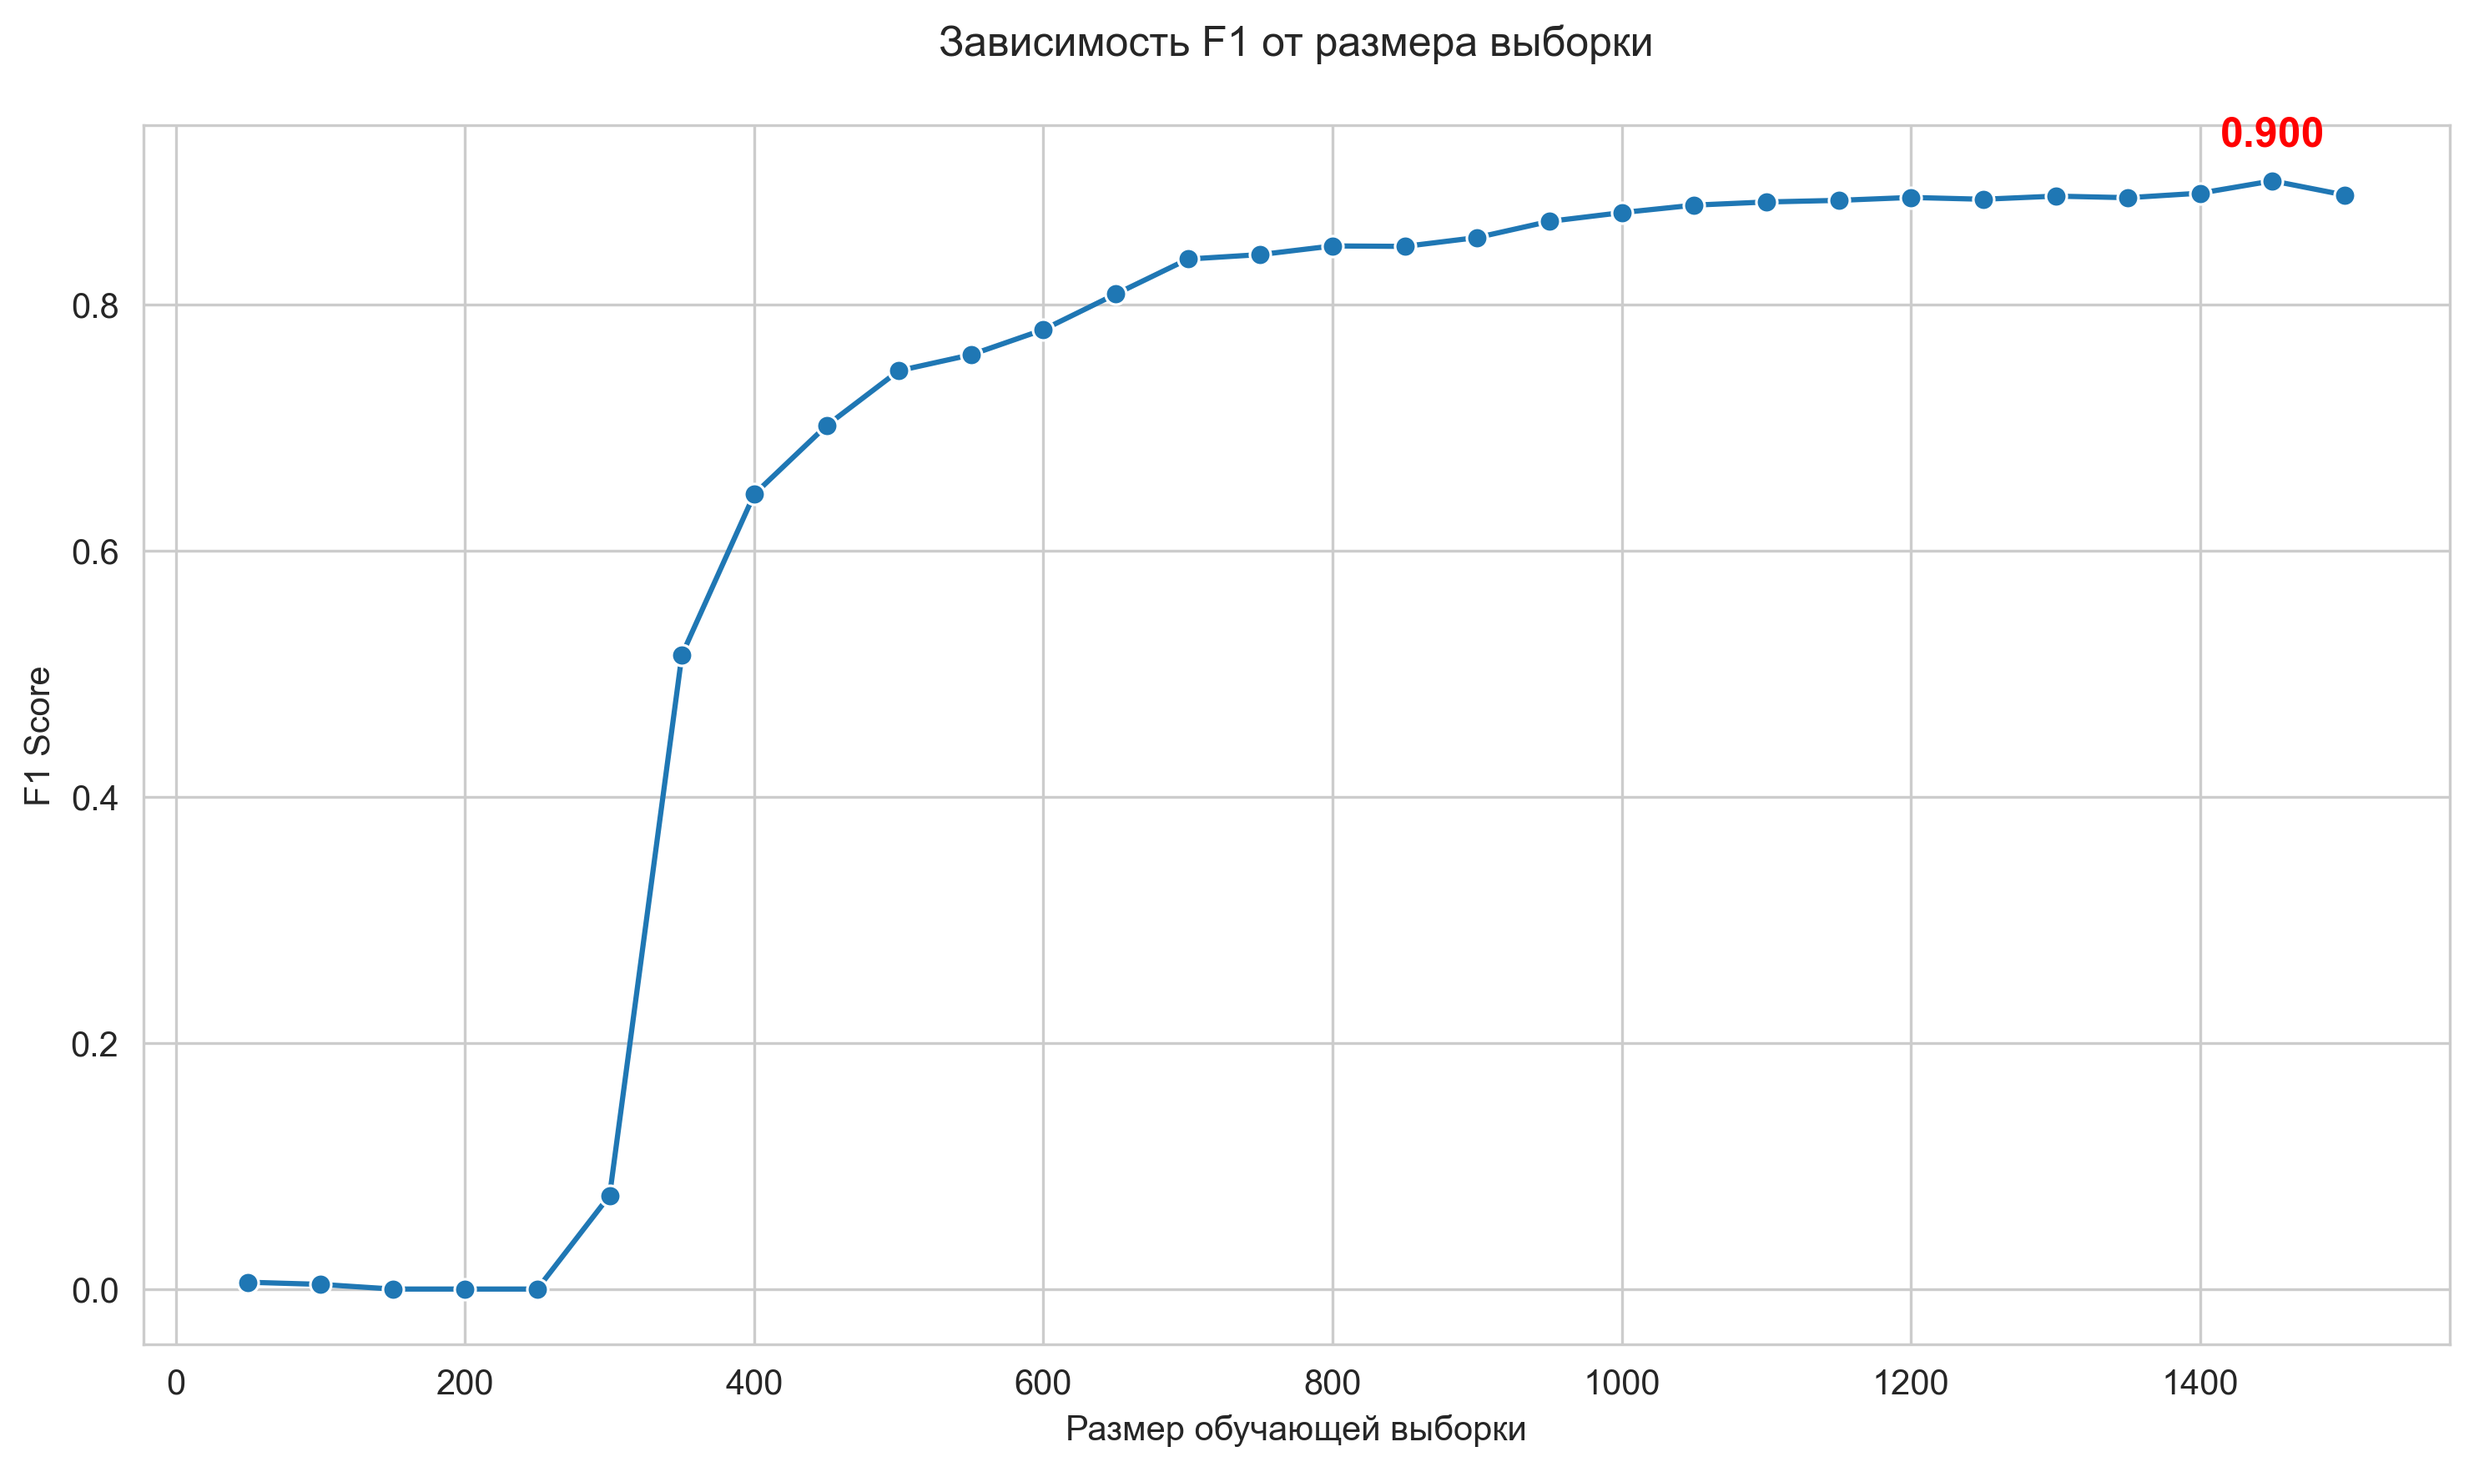
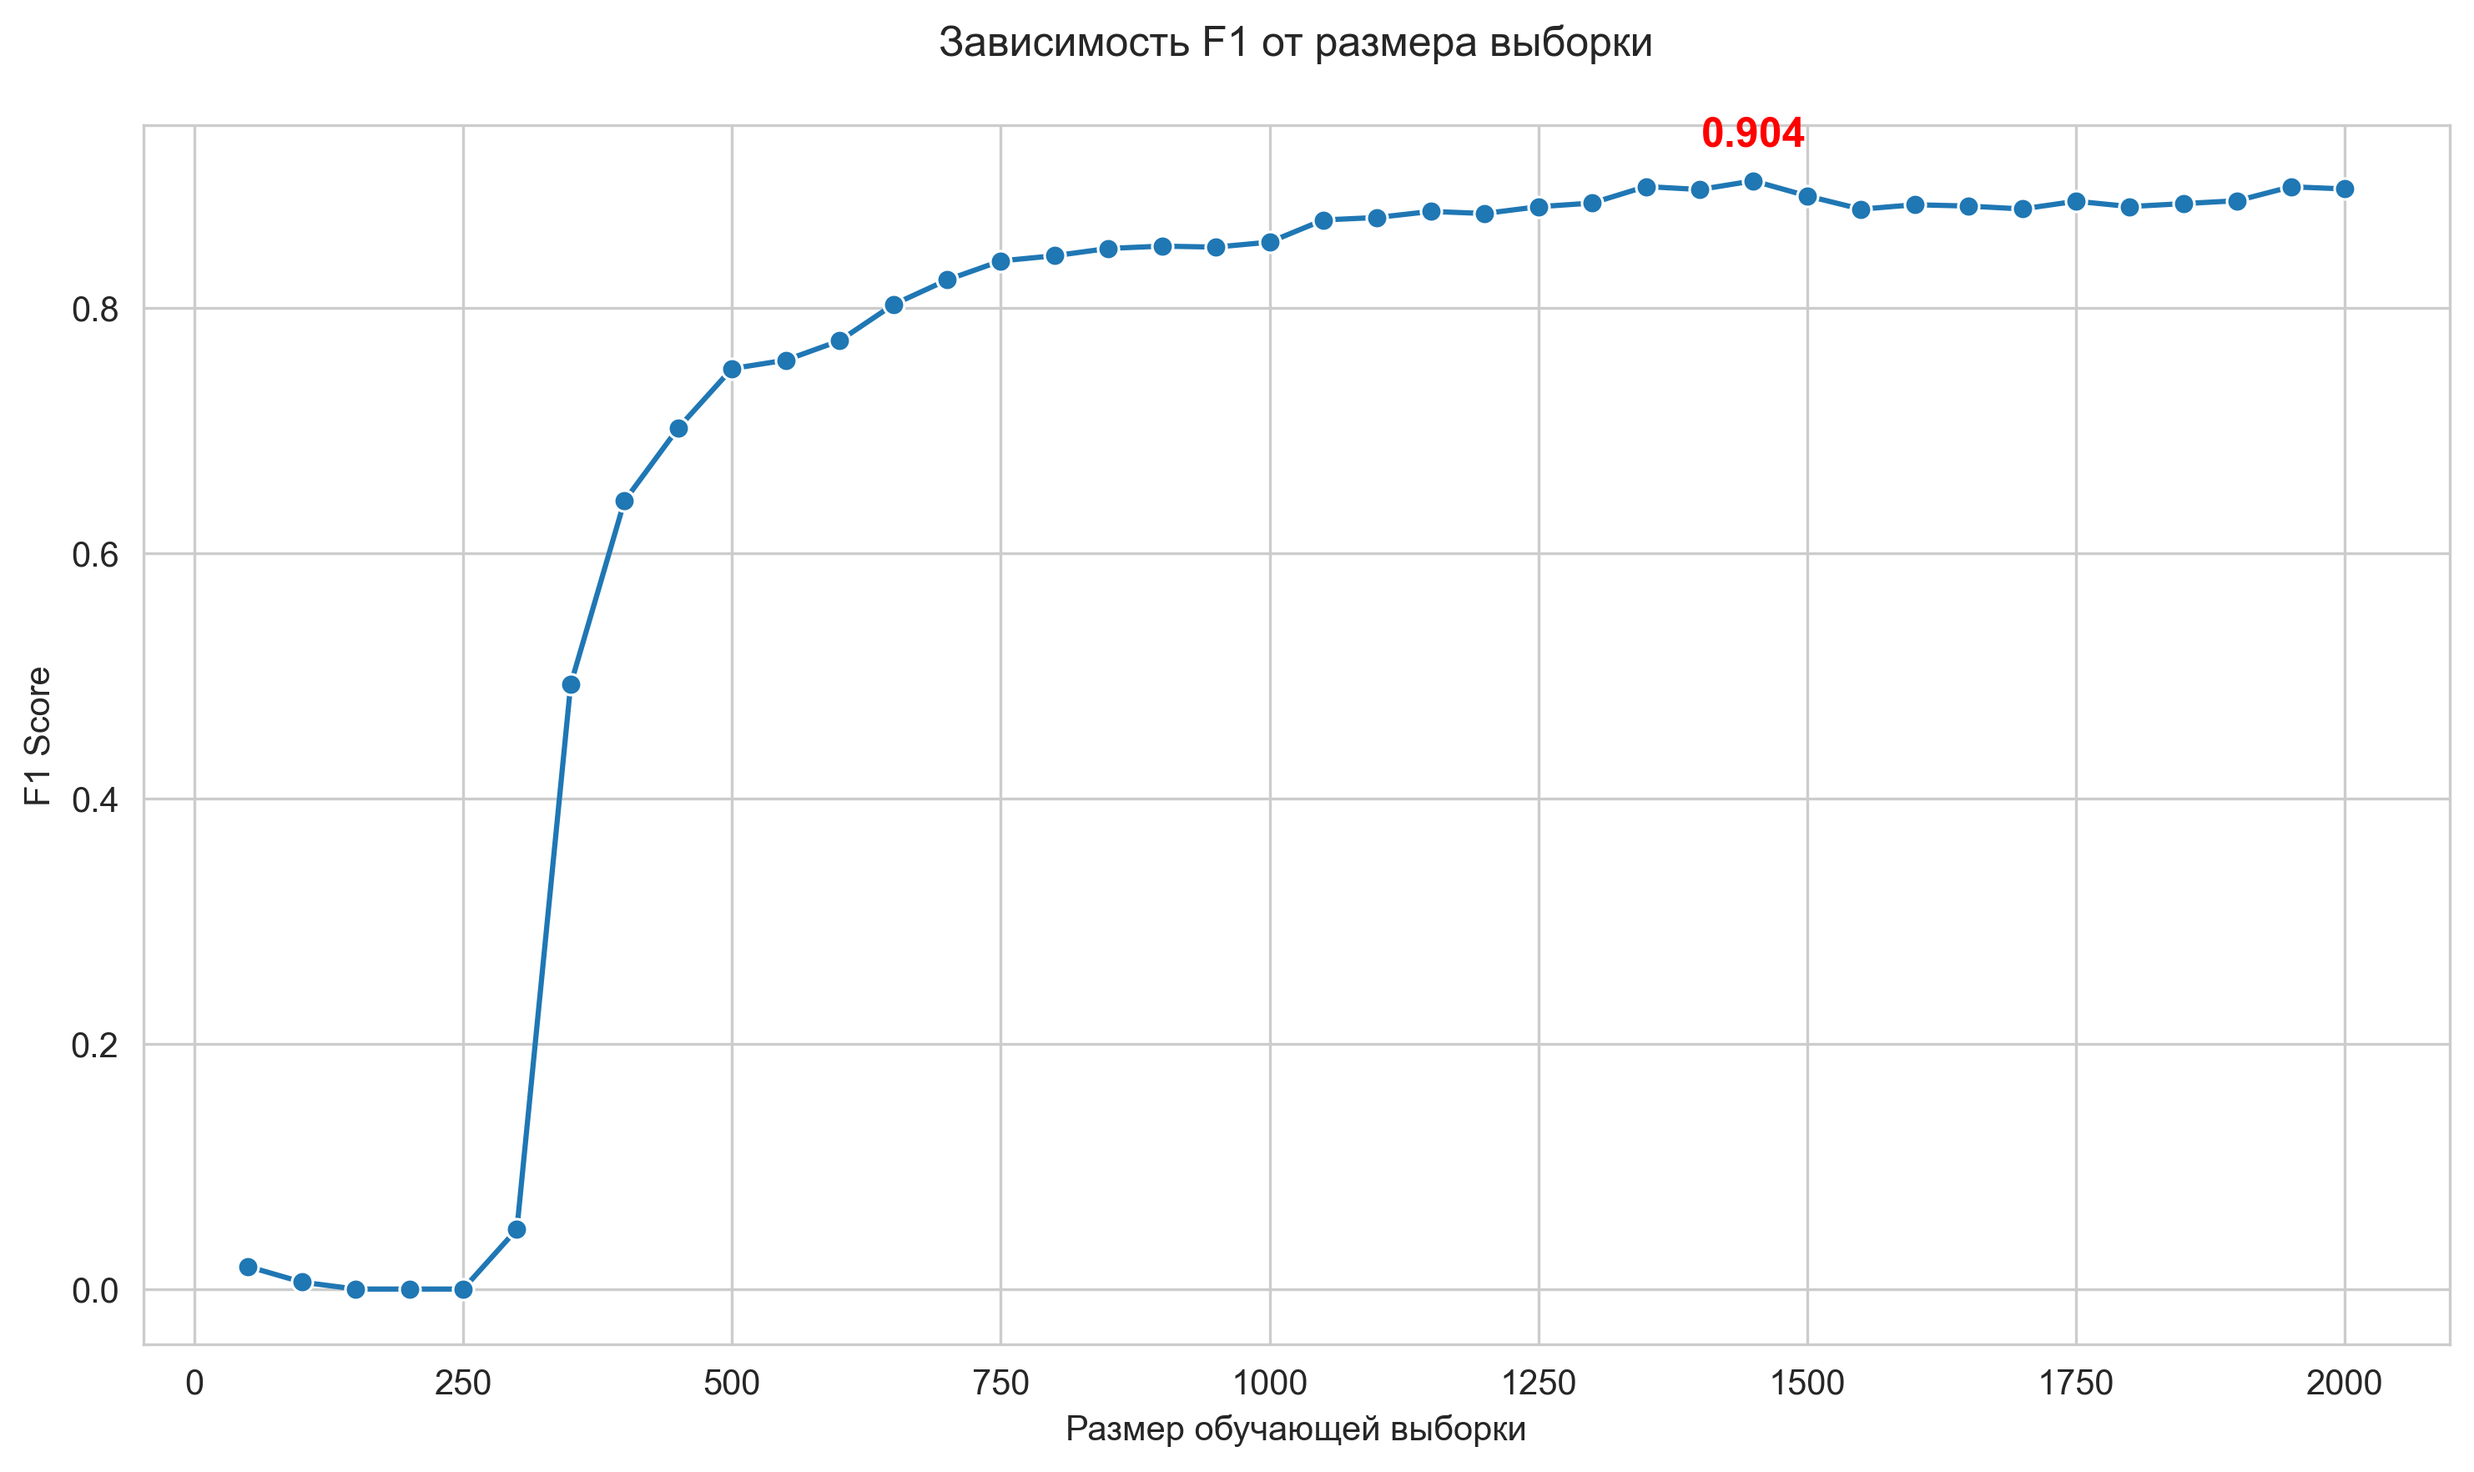
update

diff --git a/README.md b/README.md
@@ -131,8 +131,8 @@
 ## Результаты и метрики
 ![F1-метрика vs Размер выборки](learning_curve.png)
 
-- **F1 = 0.75** уже при 350 размеченных сообщений
-- **F1 = 0.90** при 1450 сообщениях
+- **F1 > 0.75** уже при 400 размеченных сообщений
+- **F1 > 0.90** при 1450 сообщениях
 - RE‑модуль устраняет ложные срабатывания на части тела без симптомов
 
 
